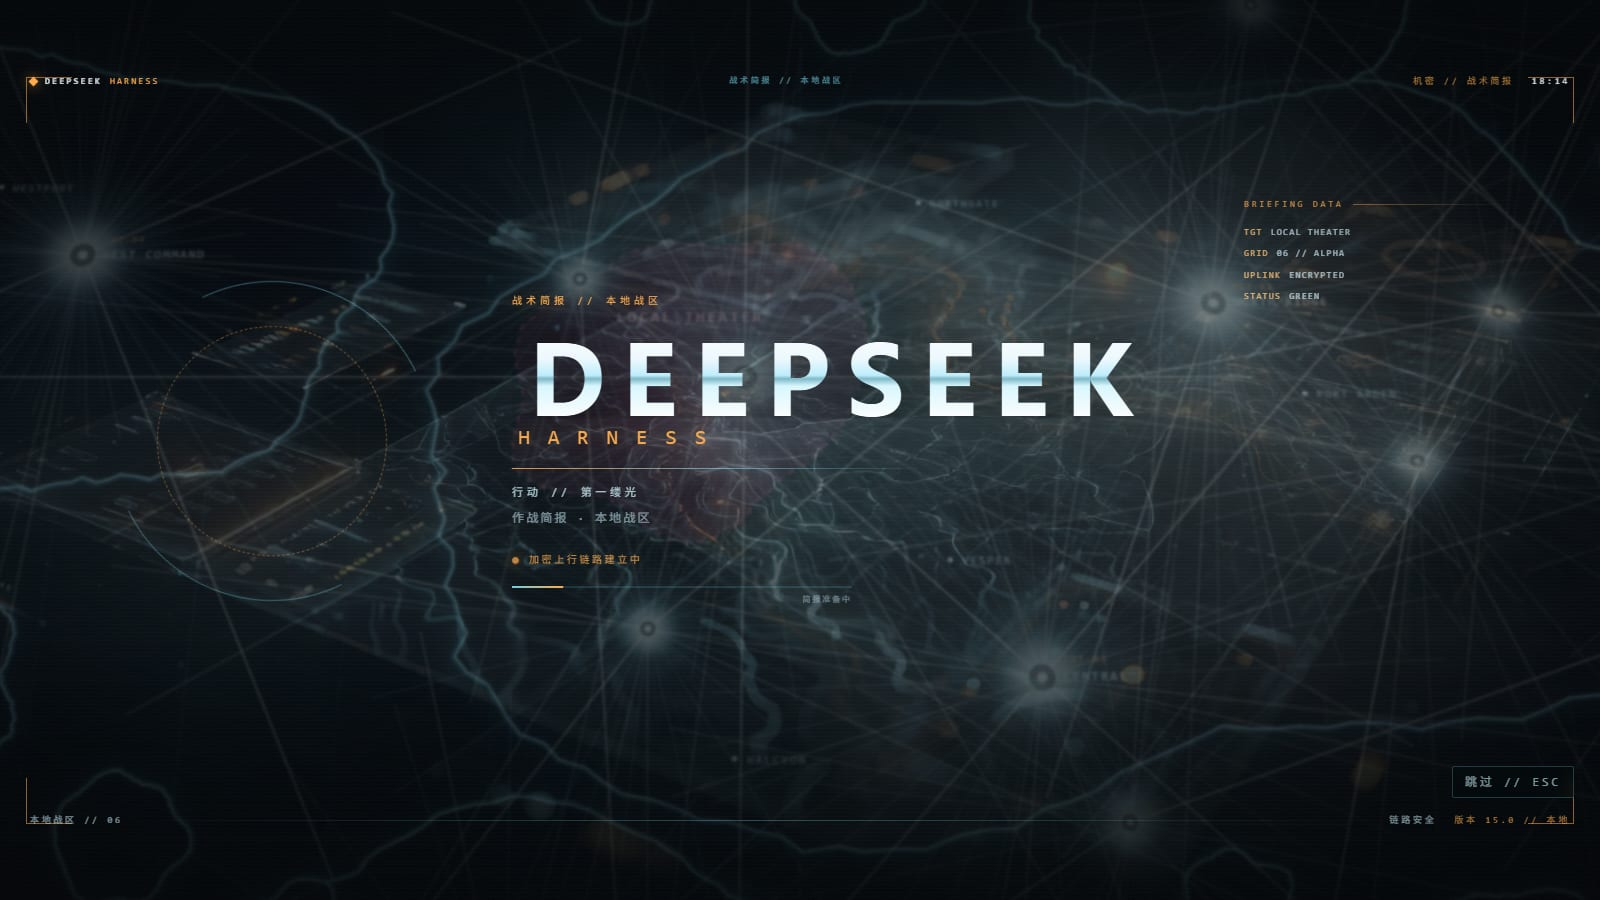
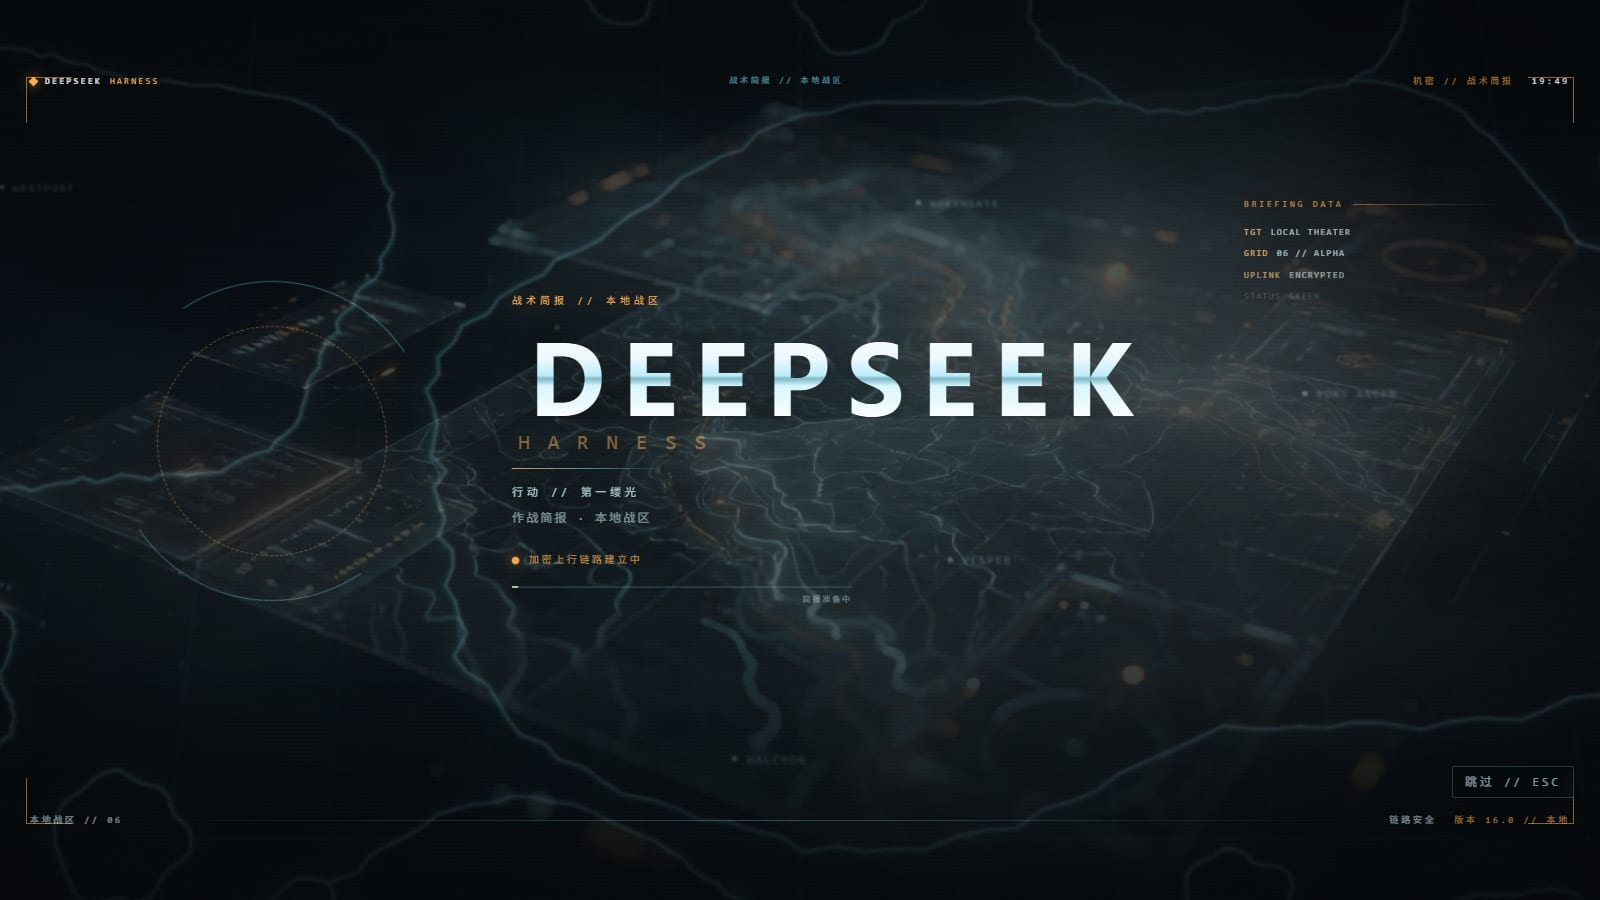
feat: choreograph the theater reveal (v0.16.0)
- theater now starts uncolored: no highlight fill, no nodes and no rays
- a white-hot seed appears at the theater centre, floats upward and bursts into dense layered rays while the magenta sector fill rises from below
- the seed halo then dissipates and the node rays fade, leaving only the key data nodes with soft halos; the highlighted sector stays
- longer theater beat (2.6-8.2s) to give the reveal room; console/title shifted to 8.2-11.4 / 11.4-15
- stronger central concentration: nested seed halos, white core with bloom, second inner node halo
- docs: burst frame previews, reveal frame capture helper, README/locale updated
- tests 8/8, real-Edge reload check clean

diff --git a/client.js b/client.js
@@ -66,19 +66,19 @@ window.__ModuleLoader__.load({
 
     const PHASES = [
       { id: 'brief', at: 0 },
-      { id: 'theater', at: 2800 },
-      { id: 'console', at: 7200 },
-      { id: 'title', at: 10800 },
+      { id: 'theater', at: 2600 },
+      { id: 'console', at: 8200 },
+      { id: 'title', at: 11400 },
     ];
     const PHASE_TIMES = PHASES.map((phase) => phase.at);
-    const REDUCED_PHASES = [0, 1100, 2300, 3400];
+    const REDUCED_PHASES = [0, 1100, 2700, 3700];
 
     const ZH = {
       'aria.label': 'DeepSeek Harness 开机动画',
       'aria.skip': '跳过开机动画',
       'skip.label': '跳过',
       'hud.op': '行动 // 第一缕光',
-      'hud.build': '版本 15.1 // 本地',
+      'hud.build': '版本 16.0 // 本地',
       'hud.theater': '本地战区 // 06',
       'hud.link': '链路安全',
       'brief.kicker': '战术简报 // 本地战区',
@@ -127,7 +127,7 @@ window.__ModuleLoader__.load({
       'aria.skip': 'Skip the boot sequence',
       'skip.label': 'SKIP',
       'hud.op': 'OPERATION // FIRST LIGHT',
-      'hud.build': 'BUILD 15.1 // LOCAL',
+      'hud.build': 'BUILD 16.0 // LOCAL',
       'hud.theater': 'LOCAL THEATER // 06',
       'hud.link': 'LINK SECURE',
       'brief.kicker': 'TACTICAL BRIEFING // LOCAL THEATER',
@@ -388,9 +388,13 @@ window.__ModuleLoader__.load({
         return h(
           'g',
           { key: item.key, clipPath: 'url(#' + item.clip + ')' },
-          h('path', { className: 'acb-highlight-glow', d: item.d, style: { '--acb-i': index } }),
-          h('path', { className: 'acb-highlight', d: item.d }),
-          h('text', { className: 'acb-highlight-label', x: item.lx, y: item.ly, textAnchor: 'middle' }, item.label),
+          h(
+            'g',
+            { className: 'acb-highlight-rise', clipPath: 'url(#acbRiseClip)' },
+            h('path', { className: 'acb-highlight-glow', d: item.d, style: { '--acb-i': index } }),
+            h('path', { className: 'acb-highlight', d: item.d }),
+            h('text', { className: 'acb-highlight-label', x: item.lx, y: item.ly, textAnchor: 'middle' }, item.label),
+          ),
         );
       });
       const graticule = [];
@@ -465,6 +469,36 @@ window.__ModuleLoader__.load({
             : null,
         );
       });
+      const seedRays = [];
+      for (let ray = 0; ray < 96; ray += 1) {
+        const angle = (ray / 96) * Math.PI * 2 + 0.17;
+        const long = ray % 6 === 0;
+        const length = long ? 300 + ((ray * 47) % 280) : 44 + ((ray * 61) % 210);
+        seedRays.push(
+          h('line', {
+            key: 'seed-ray-' + ray,
+            className: long ? 'hot' : '',
+            x1: 0,
+            y1: 0,
+            x2: (Math.cos(angle) * length).toFixed(1),
+            y2: (Math.sin(angle) * length).toFixed(1),
+          }),
+        );
+      }
+      const seed = h(
+        'g',
+        { className: 'acb-seed-anchor', transform: 'translate(762 392)' },
+        h(
+          'g',
+          { className: 'acb-seed' },
+          h('circle', { className: 'acb-seed-halo acb-seed-halo-far', r: 176, fill: 'url(#acbSeedGlow)' }),
+          h('circle', { className: 'acb-seed-halo acb-seed-halo-mid', r: 82, fill: 'url(#acbSeedGlow)' }),
+          h('circle', { className: 'acb-seed-halo acb-seed-halo-near', r: 34, fill: 'url(#acbSeedCore)' }),
+          h('circle', { className: 'acb-seed-ring', r: 18 }),
+          h('g', { className: 'acb-seed-rays' }, seedRays),
+          h('circle', { className: 'acb-seed-core', r: 5 }),
+        ),
+      );
       const cities = CITIES.map(function (city) {
         return h(
           'g',
@@ -523,6 +557,26 @@ window.__ModuleLoader__.load({
                 h('stop', { offset: '100%', stopColor: 'rgba(120,220,255,0)' }),
               ),
               h(
+                'radialGradient',
+                { id: 'acbSeedGlow' },
+                h('stop', { offset: '0%', stopColor: 'rgba(236,253,255,.95)' }),
+                h('stop', { offset: '26%', stopColor: 'rgba(150,232,255,.42)' }),
+                h('stop', { offset: '100%', stopColor: 'rgba(50,140,180,0)' }),
+              ),
+              h(
+                'radialGradient',
+                { id: 'acbSeedCore' },
+                h('stop', { offset: '0%', stopColor: '#ffffff' }),
+                h('stop', { offset: '16%', stopColor: 'rgba(255,255,255,.95)' }),
+                h('stop', { offset: '38%', stopColor: 'rgba(190,242,255,.55)' }),
+                h('stop', { offset: '100%', stopColor: 'rgba(120,220,255,0)' }),
+              ),
+              h(
+                'clipPath',
+                { id: 'acbRiseClip' },
+                h('rect', { className: 'acb-rise-rect', x: 0, y: 0, width: 1600, height: 900 }),
+              ),
+              h(
                 'filter',
                 { id: 'acbCoastGlow', x: '-20%', y: '-20%', width: '140%', height: '140%' },
                 h('feGaussianBlur', { stdDeviation: 4.5, result: 'blur' }),
@@ -546,6 +600,7 @@ window.__ModuleLoader__.load({
             ),
             h('g', { className: 'acb-highlights' }, highlights),
             h('g', { className: 'acb-nodes' }, nodes),
+            seed,
             h('g', { className: 'acb-cities' }, cities),
           ),
         ),
@@ -1216,23 +1271,78 @@ window.__ModuleLoader__.load({
 .acb-land{fill:rgba(5,16,27,.74);stroke:rgba(184,246,255,.9);stroke-width:1.05;}
 .acb-land-halo{fill:none;stroke:rgba(88,208,255,.32);stroke-width:5;filter:url(#acbSoftGlow);}
 .acb-land-tex{opacity:.14;filter:hue-rotate(150deg) saturate(.55) brightness(.8);}
+.acb-highlights{opacity:1;transition:opacity .5s ease;}
+.acb-root[data-phase="brief"] .acb-highlights{opacity:0;}
 .acb-highlight{fill:rgba(200,60,130,.19);stroke:rgba(255,120,180,.58);stroke-width:1;stroke-dasharray:5 5;}
 .acb-highlight-glow{fill:url(#acbGlowMagenta);mix-blend-mode:screen;opacity:.68;}
 .acb-highlight-label{fill:rgba(255,170,205,.9);font-size:10px;letter-spacing:.24em;text-transform:uppercase;}
+.acb-rise-rect{transform-box:fill-box;transform-origin:50% 100%;transform:scaleY(1);}
+.acb-root[data-phase="theater"] .acb-rise-rect{animation:acbRegionRise 1.7s cubic-bezier(.2,.75,.2,1) 1.05s both;}
+@keyframes acbRegionRise{from{transform:scaleY(0)}to{transform:scaleY(1)}}
+.acb-root[data-phase="theater"] .acb-highlight{animation:acbHighlightIn 1.1s ease .95s both;}
+@keyframes acbHighlightIn{from{opacity:0}to{opacity:1}}
+.acb-root[data-phase="theater"] .acb-highlight-glow{animation:acbHighlightBloom 4.9s ease 1s both;}
+@keyframes acbHighlightBloom{0%{opacity:0}22%{opacity:1}62%{opacity:.8}100%{opacity:.5}}
+.acb-root[data-phase="theater"] .acb-highlight-label{animation:acbLabelIn .8s ease 2s both;}
+@keyframes acbLabelIn{from{opacity:0}to{opacity:1}}
 .acb-city circle{fill:rgba(220,250,255,.9);}
 .acb-city text{fill:rgba(196,238,255,.62);font-size:8px;letter-spacing:.14em;}
-.acb-node{opacity:.9;}
-.acb-node-rays line{stroke:rgba(190,240,255,.14);stroke-width:.6;}
-.acb-node-rays line.mid{stroke:rgba(214,250,255,.26);stroke-width:.75;}
-.acb-node-rays line.long{stroke:rgba(238,253,255,.42);stroke-width:.9;}
-.acb-node-rays line.hot{stroke:rgba(255,255,255,.62);stroke-width:1.1;}
-.acb-node-rays line.spike{stroke:rgba(255,255,255,.32);stroke-width:.9;}
+.acb-node{opacity:.92;}
+.acb-root[data-phase="brief"] .acb-node{opacity:0;}
+.acb-node-rays{opacity:0;transform-box:fill-box;transform-origin:center;}
+.acb-node-rays line{stroke:rgba(190,240,255,.2);stroke-width:.65;}
+.acb-node-rays line.mid{stroke:rgba(214,250,255,.28);stroke-width:.78;}
+.acb-node-rays line.long{stroke:rgba(238,253,255,.44);stroke-width:.92;}
+.acb-node-rays line.hot{stroke:rgba(255,255,255,.66);stroke-width:1.15;}
+.acb-node-rays line.spike{stroke:rgba(255,255,255,.34);stroke-width:.9;}
 .acb-node-ring{fill:rgba(4,14,22,.5);stroke:rgba(190,246,255,.6);stroke-width:1;}
 .acb-node-dot{fill:#e8fdff;filter:drop-shadow(0 0 6px rgba(190,246,255,.95));}
-.acb-node-halo{mix-blend-mode:screen;opacity:.85;}
-.acb-node-halo-core{mix-blend-mode:screen;opacity:.95;}
+.acb-node-ring,.acb-node-dot{transform-box:fill-box;transform-origin:center;}
+.acb-node-halo{mix-blend-mode:screen;opacity:0;transform-box:fill-box;transform-origin:center;}
+.acb-node-halo-core{mix-blend-mode:screen;opacity:0;transform-box:fill-box;transform-origin:center;}
+.acb-node.is-hub .acb-node-halo{opacity:.5;}
+.acb-node.is-hub .acb-node-halo-core{opacity:.6;}
 .acb-node-label{fill:rgba(214,246,255,.85);font-size:8.5px;letter-spacing:.16em;}
 .acb-node-tag{fill:rgba(255,190,130,.68);font-size:7px;letter-spacing:.14em;}
+.acb-root[data-phase="brief"] .acb-node-label,
+.acb-root[data-phase="brief"] .acb-node-tag{opacity:0;}
+.acb-root[data-phase="theater"] .acb-node .acb-node-ring,
+.acb-root[data-phase="theater"] .acb-node .acb-node-dot{animation:acbNodeCoreIn .55s ease calc(1.35s + var(--acb-i) * .08s) both;}
+@keyframes acbNodeCoreIn{from{opacity:0;transform:scale(.3)}to{opacity:1;transform:scale(1)}}
+.acb-root[data-phase="theater"] .acb-node .acb-node-halo,
+.acb-root[data-phase="theater"] .acb-node .acb-node-halo-core{animation:acbNodeHaloIn 3.2s ease calc(1.3s + var(--acb-i) * .07s) both;}
+@keyframes acbNodeHaloIn{0%{opacity:0;transform:scale(.4)}22%{opacity:.95;transform:scale(1.1)}55%{opacity:.7;transform:scale(1)}100%{opacity:0;transform:scale(1.15)}}
+.acb-root[data-phase="theater"] .acb-node .acb-node-rays{animation:acbNodeRaysOut 3.1s ease calc(1.32s + var(--acb-i) * .06s) both;}
+@keyframes acbNodeRaysOut{0%{opacity:0;transform:scale(.05)}22%{opacity:.95;transform:scale(1)}60%{opacity:.7}100%{opacity:0;transform:scale(1.07)}}
+.acb-root[data-phase="theater"] .acb-node.is-hub .acb-node-halo{animation-name:acbNodeHaloHub;}
+@keyframes acbNodeHaloHub{0%{opacity:0;transform:scale(.4)}20%{opacity:1;transform:scale(1.12)}55%{opacity:.85;transform:scale(1)}100%{opacity:.5;transform:scale(1.05)}}
+.acb-root[data-phase="theater"] .acb-node.is-hub .acb-node-halo-core{animation-name:acbNodeHaloCoreHub;}
+@keyframes acbNodeHaloCoreHub{0%{opacity:0;transform:scale(.4)}20%{opacity:1;transform:scale(1.15)}45%{opacity:.9;transform:scale(1)}100%{opacity:.6;transform:scale(1.08)}}
+.acb-root[data-phase="theater"] .acb-node-label,
+.acb-root[data-phase="theater"] .acb-node-tag{animation:acbLabelIn .8s ease calc(2.15s + var(--acb-i) * .05s) both;}
+.acb-seed-anchor{pointer-events:none;}
+.acb-seed{opacity:0;transform-box:fill-box;transform-origin:center;}
+.acb-root[data-phase="theater"] .acb-seed{animation:acbSeedRise 4s cubic-bezier(.2,.7,.25,1) .45s both;}
+@keyframes acbSeedRise{
+  0%{opacity:0;transform:translateY(34px) scale(.3)}
+  10%{opacity:1;transform:translateY(24px) scale(.75)}
+  22%{opacity:1;transform:translateY(10px) scale(1)}
+  32%{opacity:1;transform:translateY(0) scale(1.06)}
+  55%{opacity:1;transform:translateY(-5px) scale(1.03)}
+  72%{opacity:.55;transform:translateY(-12px) scale(1.2)}
+  100%{opacity:0;transform:translateY(-22px) scale(1.55)}
+}
+.acb-seed-halo{mix-blend-mode:screen;}
+.acb-seed-halo-far{opacity:.55;}
+.acb-seed-halo-mid{opacity:.8;}
+.acb-seed-halo-near{opacity:.95;}
+.acb-seed-ring{fill:none;stroke:rgba(255,255,255,.7);stroke-width:.8;stroke-dasharray:2 4;}
+.acb-seed-core{fill:#ffffff;filter:drop-shadow(0 0 8px #fff) drop-shadow(0 0 26px rgba(170,240,255,.95));}
+.acb-seed-rays{opacity:0;transform-box:fill-box;transform-origin:center;}
+.acb-seed-rays line{stroke:rgba(200,245,255,.24);stroke-width:.7;}
+.acb-seed-rays line.hot{stroke:rgba(255,255,255,.58);stroke-width:1;}
+.acb-root[data-phase="theater"] .acb-seed-rays{animation:acbSeedRays 3.2s ease .5s both;}
+@keyframes acbSeedRays{0%{opacity:0;transform:scale(.1)}16%{opacity:1;transform:scale(1)}60%{opacity:.85;transform:scale(1.02)}100%{opacity:0;transform:scale(1.18)}}
 .acb-rails{position:absolute;top:15vh;z-index:4;width:200px;font-size:7.5px;line-height:1.75;
   letter-spacing:.1em;color:rgba(176,230,250,.62);pointer-events:none;text-shadow:0 0 8px rgba(0,0,0,.9);line-height:1.9;}
 .acb-rails-left{left:24px;text-align:left;border-left:1px solid rgba(96,200,255,.24);padding-left:14px;}
@@ -1305,7 +1415,7 @@ window.__ModuleLoader__.load({
   animation:acbFlash .8s ease both;}
 @keyframes acbFlash{from{opacity:0}12%{opacity:.85}to{opacity:0}}
 .acb-stage{position:absolute;inset:0;z-index:3;}
-.acb-scene{position:absolute;inset:0;opacity:0;visibility:hidden;transition:opacity .55s ease,visibility .55s;}
+.acb-scene{position:absolute;inset:0;opacity:0;visibility:hidden;transition:opacity .35s ease,visibility .35s;}
 .acb-scene.is-past{opacity:0;visibility:hidden;}
 .acb-scene.is-active{opacity:1;visibility:visible;}
 .acb-kicker{font-size:10px;letter-spacing:.4em;color:var(--acb-amber);text-transform:uppercase;

diff --git a/boot-splash.js b/boot-splash.js
@@ -81,7 +81,7 @@ export const EARLY_HTML = String.raw`
   <div class="acbE-bottom">
     <span>DESKTOP <b>06</b></span>
     <span>LOCAL // SECURE BOOT</span>
-    <span>BUILD <b>15.1</b></span>
+    <span>BUILD <b>16.0</b></span>
   </div>
 </div>
 `;

diff --git a/README.md b/README.md
@@ -6,11 +6,13 @@ DeepSeek Harness Web UI 的电影感开机序列：四段式**战术任务简报
 
 序列只属于**一次应用启动**：冷启动播放一次；休眠唤醒、托盘恢复、页面刷新都不会重播。
 
-当前版本：**0.15.1**
+当前版本：**0.16.0**
 
 > 0.15.0：战区段重做成完整的任务简报界面——程序化海岸线 + 经纬网格 + `SAT DATA LINK` / `PLATE` 数据栏 + 多节点长射线 + 品红 `LOCAL THEATER` 高亮 + 底部任务字幕。
 
 > 0.15.1：射线爆发加密——每个节点从密集的亮核向外分三层（细 / 中 / 长）散开，另加四向十字长射线，密度大幅提高。
+
+> 0.16.0：战区揭示动画按"初始无色 → 强光点浮起 → 密集射线爆发 → 下方区域自下而上涂色 → 光晕消散只留关键点"编排，并放大了光晕中心的浓度。
 
 | 简报上行 | 战区态势 |
 | --- | --- |
@@ -20,10 +22,10 @@ DeepSeek Harness Web UI 的电影感开机序列：四段式**战术任务简报
 
 ## 这一版是什么
 
-1. **简报 / BRIEF（0–2.8s）**：暗场里一张全息指挥桌缓慢呼吸，左侧轨道环，右侧 `DEEPSEEK / HARNESS` 字标划开；`OPERATION // FIRST LIGHT`、加密上行状态、简报准备进度，右侧 `BRIEFING DATA`（TGT / GRID / UPLINK / STATUS）。
-2. **战区 / THEATER（2.8–7.2s）**：全幅全息战区图。程序化海岸线 + 青色发光描边，经纬网格与坐标刻度；左右两列数据栏——`SAT DATA LINK / UPLOAD STATUS / NODE STATUS` 与 `PLATE 06 // LOCAL / THEATER GRID`；12 个数据节点从密集亮核向外分三层（细 / 中 / 长）散开，另有四向十字长射线，4 个主节点更亮；品红 `LOCAL THEATER` 高亮区、城市标签与底部双语任务字幕。
-3. **权限 / CONSOLE（7.2–10.8s）**：战区图退暗，左侧 `OPERATOR ACCESS` 卡片逐条校验身份、凭据、本机配置并盖 `ACCESS GRANTED`；右侧系统检查列表、雷达扫描与遥测；背景是低透明度的 `CLASSIFIED` 分类水印。
-4. **标题 / TITLE（10.8–15s）**：地图线稿淡出，`DEEPSEEK` 大标题、`MISSION START` 任务开始章、三枚状态 chip、`按 Enter 继续` 与自动继续进度。
+1. **简报 / BRIEF（0–2.6s）**：暗场里一张全息指挥桌缓慢呼吸，左侧轨道环，右侧 `DEEPSEEK / HARNESS` 字标划开；`OPERATION // FIRST LIGHT`、加密上行状态、简报准备进度，右侧 `BRIEFING DATA`（TGT / GRID / UPLINK / STATUS）。
+2. **战区 / THEATER（2.6–8.2s）**：全幅全息战区图，按揭示动画出现。初始只有无色的海岸线与网格；随后一个白热光点浮起、爆出密集射线，品红高亮区从下方升腾填色，光晕达到峰值后消散，只留下主节点与细小关键点。程序化海岸线 + 青色发光描边，经纬网格与坐标刻度；左右两列数据栏——`SAT DATA LINK / UPLOAD STATUS / NODE STATUS` 与 `PLATE 06 // LOCAL / THEATER GRID`；12 个数据节点从密集亮核向外分三层（细 / 中 / 长）散开，另有四向十字长射线，4 个主节点更亮；品红 `LOCAL THEATER` 高亮区、城市标签与底部双语任务字幕。
+3. **权限 / CONSOLE（8.2–11.4s）**：战区图退暗，左侧 `OPERATOR ACCESS` 卡片逐条校验身份、凭据、本机配置并盖 `ACCESS GRANTED`；右侧系统检查列表、雷达扫描与遥测；背景是低透明度的 `CLASSIFIED` 分类水印。
+4. **标题 / TITLE（11.4–15s）**：地图线稿淡出，`DEEPSEEK` 大标题、`MISSION START` 任务开始章、三枚状态 chip、`按 Enter 继续` 与自动继续进度。
 
 构图与信息密度参考空战任务简报界面（黑底全息地图、数据链侧栏、节点射线、底部字幕），但**地图形状、城市、数据与文案全部原创虚构**，不映射现实地理，也不读取真实工作区数据。
 
@@ -177,6 +179,7 @@ ln -s "$HOME/src/dsh-ac-boot" "$profileRoot/node_modules/@local/dsh-ac-boot"
 - 战区形状：`LANDS`（`blobPath()` 程序化海岸线，种子固定）；高亮区：`HIGHLIGHTS`；节点：`NODES`；城市：`CITIES`；经纬网格：`GRATICULE_X` / `GRATICULE_Y`
 - 数据栏文案：`SAT_ROWS` / `NODE_ROWS` / `PLATE_ROWS` / `GRID_ROWS`；底部字幕：`theater.caption` / `theater.caption.zh`
 - 地图倾角：`.acb-map-plane` 的四段 `rotateX`（简报 17° → 战区 5° → 权限 10° → 标题 12°）
+- 战区揭示：`acbSeedRise` / `acbSeedRays`（光点浮起与射线）、`acbRegionRise`（区域自下而上）、`acbNodeRaysOut`（节点射线消散）
 
 ## 交互
 
